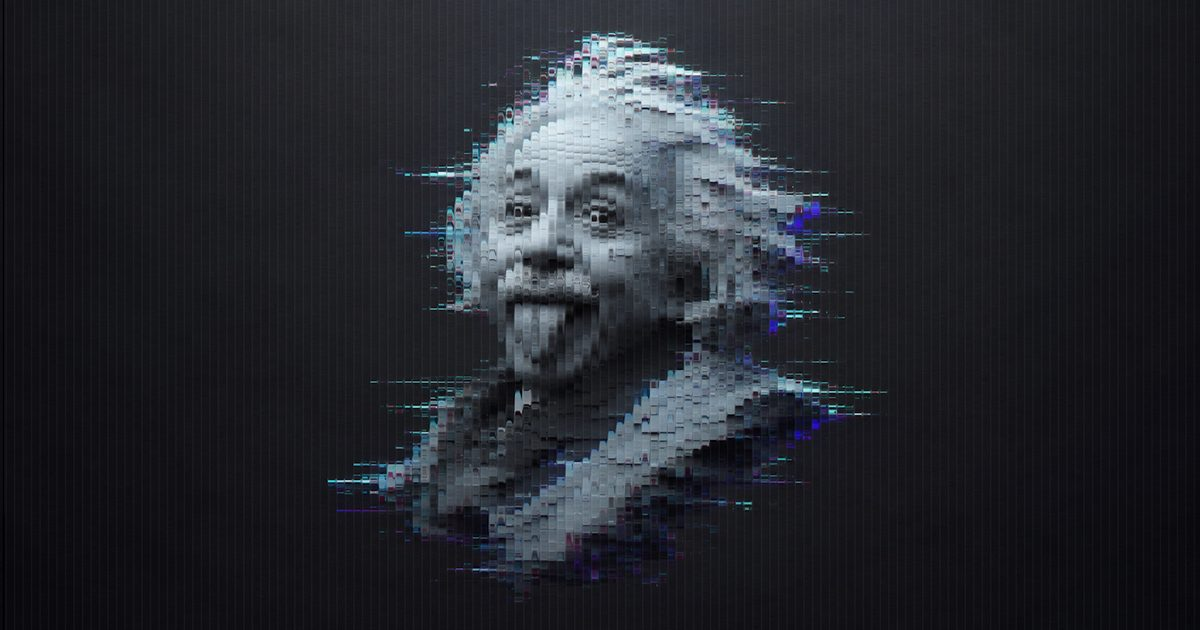
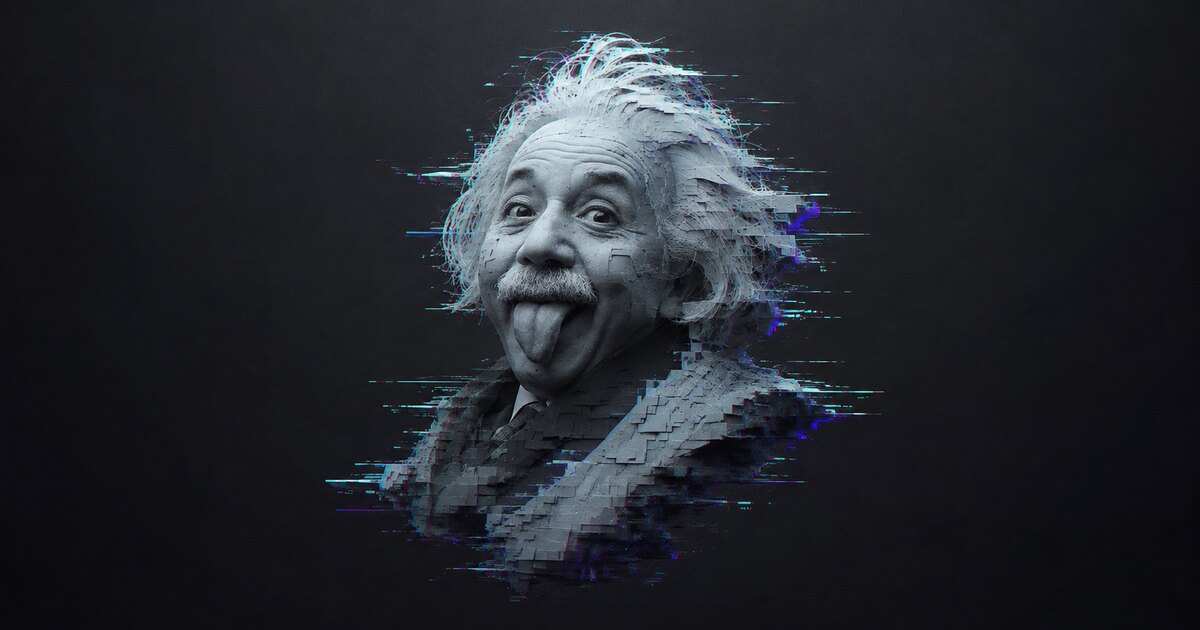
Обложка для ссылок: проявленный портрет вместо рассыпанного
На прежней обложке был кадр, где портрет распадается на кубики. Пока
мессенджеры показывали её кружком сбоку, это не мешало; теперь, когда в
разметке объявлены размеры и картинка разворачивается во всю ширину
карточки, рассыпанное лицо читается как пятно.

Обложка пересобрана из enshtane-02.png — того кадра, который на главной
проступает под курсором. Пропорция исходника почти совпадает с 1200 × 630,
так что обрезка свелась к четырём пикселям по высоте. Команда сборки
записана в README, рядом с остальными картинками.

Claude-Session: https://claude.ai/code/session_013dkFxpe1GdjTqfLcTByuE2

diff --git a/README.md b/README.md
@@ -58,6 +58,7 @@ npm run dev
 | --- | --- | --- |
 | `Logo.png` | `assets/img/logo.png` | настоящий |
 | Логотип-петля | `assets/img/logo-loop.jpg` | настоящий, мастер-копия для иконки сайта |
+| Обложка для ссылок | `assets/img/og-cover.jpg` | настоящая, собрана из `enshtane-02.png` |
 | `Enshtane 01.png` | `assets/img/enshtane-01.png` | настоящий |
 | `Enshtane 02.png` | `assets/img/enshtane-02.png` | настоящий |
 | Эйнштейн для страницы 404 | `assets/img/enshtane-404.png` | настоящий, вырезка с прозрачным фоном |
@@ -67,6 +68,24 @@ npm run dev
 | `khaletskiy.png` | `assets/img/jury/khaletskiy.png` | настоящий |
 | `trifonov.png` | `assets/img/jury/trifonov.png` | настоящий |
 | `Logo Mini white.png` | `assets/img/logo-mini-white.png` | **заглушка**, ждём файл (320 × 320, прозрачный фон) |
+
+### Обложка для ссылок
+
+`assets/img/og-cover.jpg` на самом сайте нигде не показывается — её берут
+мессенджеры и соцсети, когда кто-то присылает ссылку на фестиваль. Размер
+1200 × 630: это пропорция, при которой Telegram и ВКонтакте разворачивают
+картинку во всю ширину карточки, а не показывают кружком сбоку.
+
+Собрана из титульной картинки главной страницы:
+
+```bash
+convert assets/img/enshtane-02.png -resize 1200x630^ -gravity center \
+  -extent 1200x630 -strip -quality 86 assets/img/og-cover.jpg
+```
+
+Взят именно `enshtane-02` — тот кадр, который на главной проступает под
+курсором: лицо на нём читается. На `enshtane-01` портрет рассыпан на кубики,
+и в ленте мессенджера он превращался в непонятное пятно.
 
 ### Имена жюри внутри картинки
 
